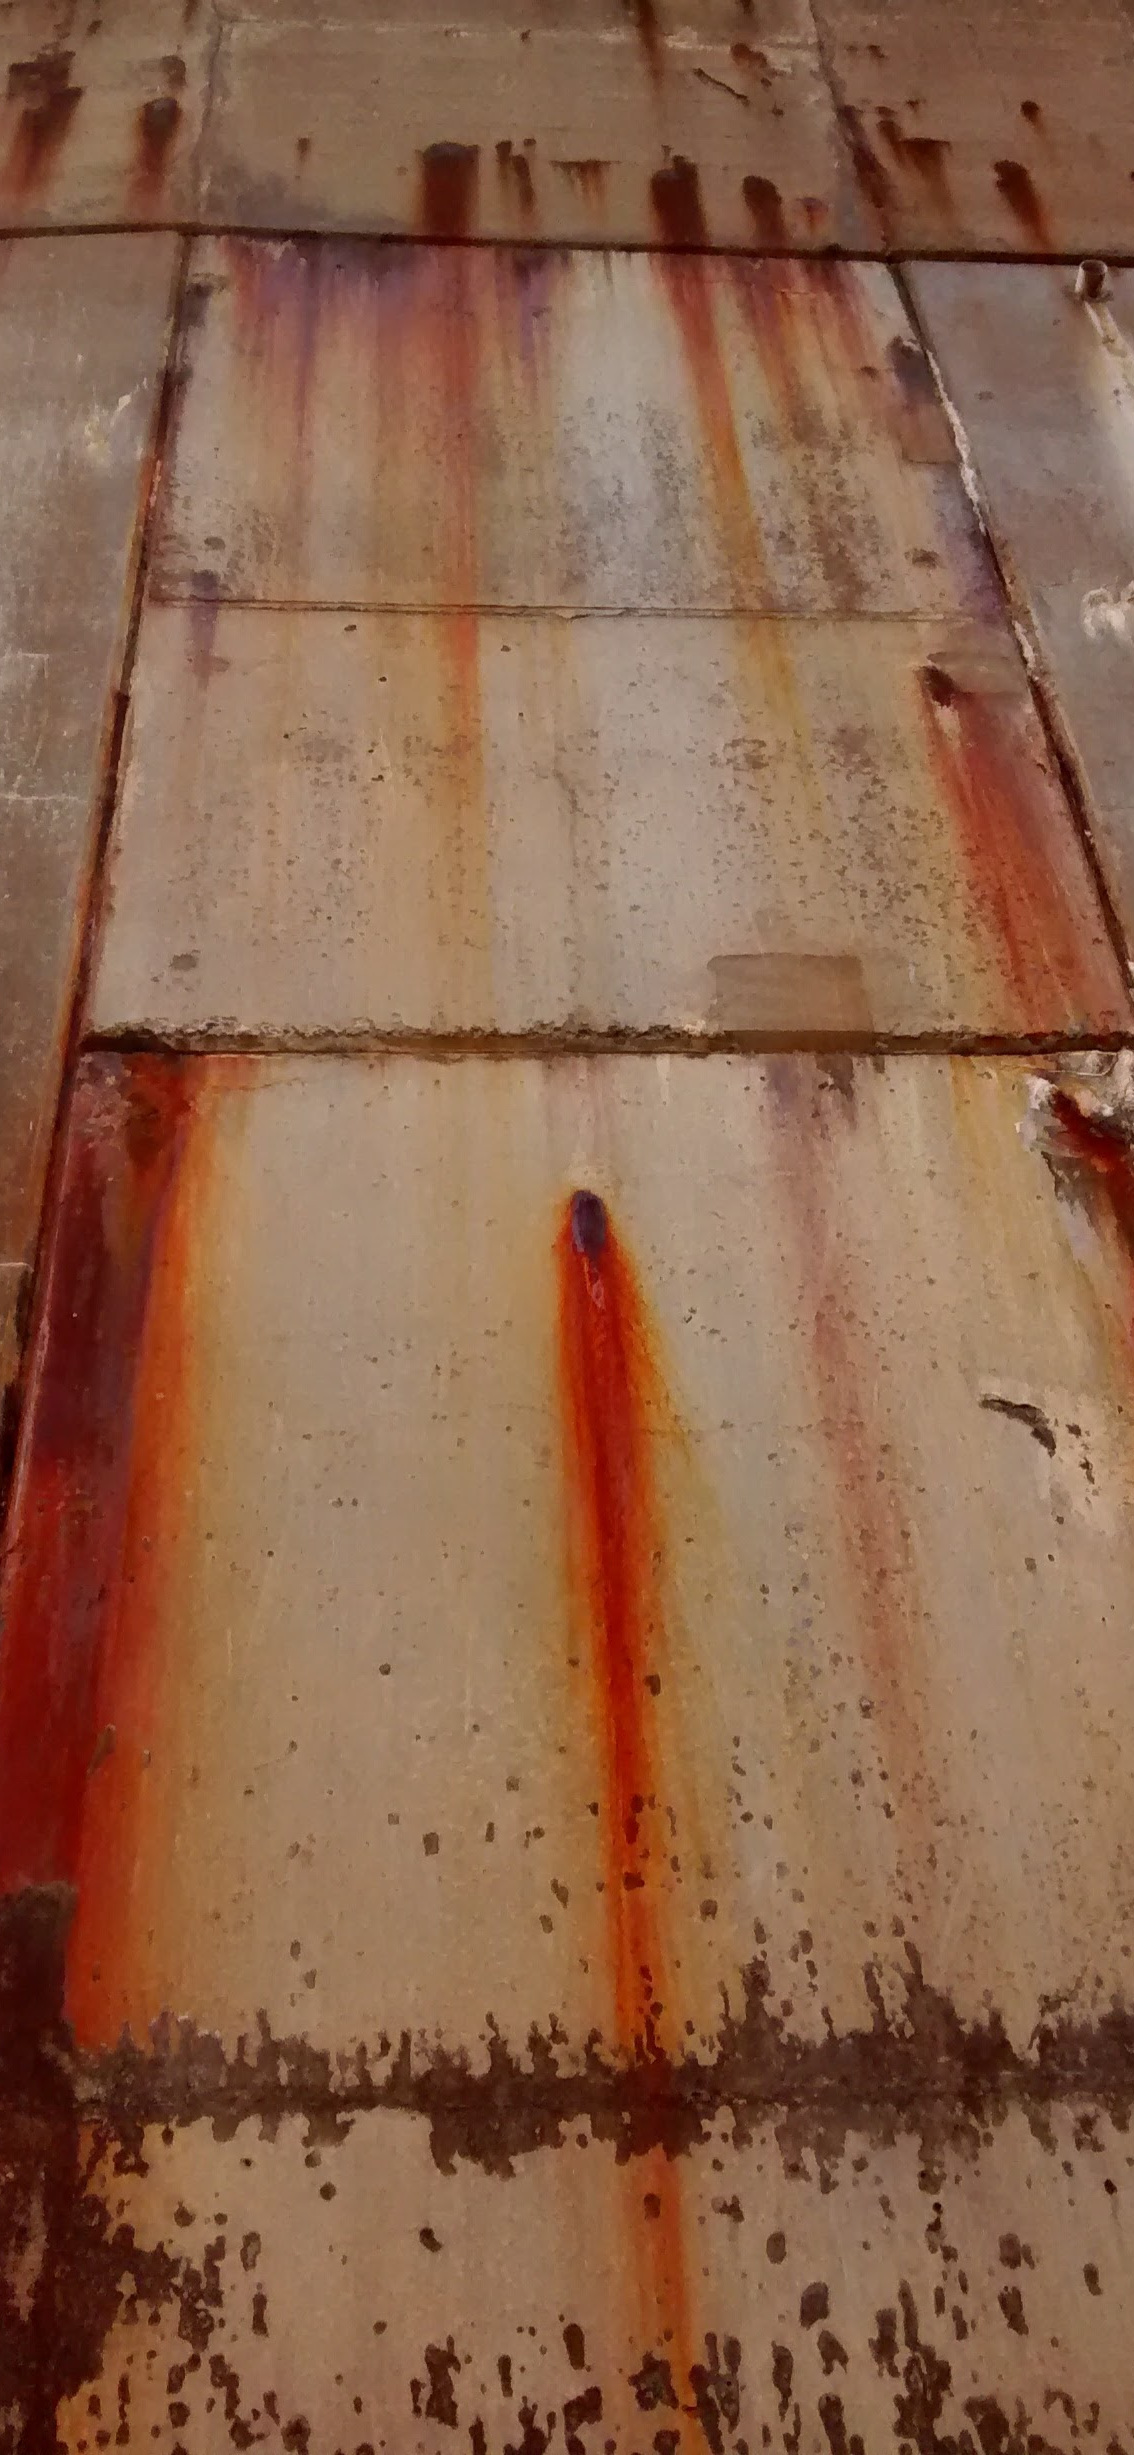
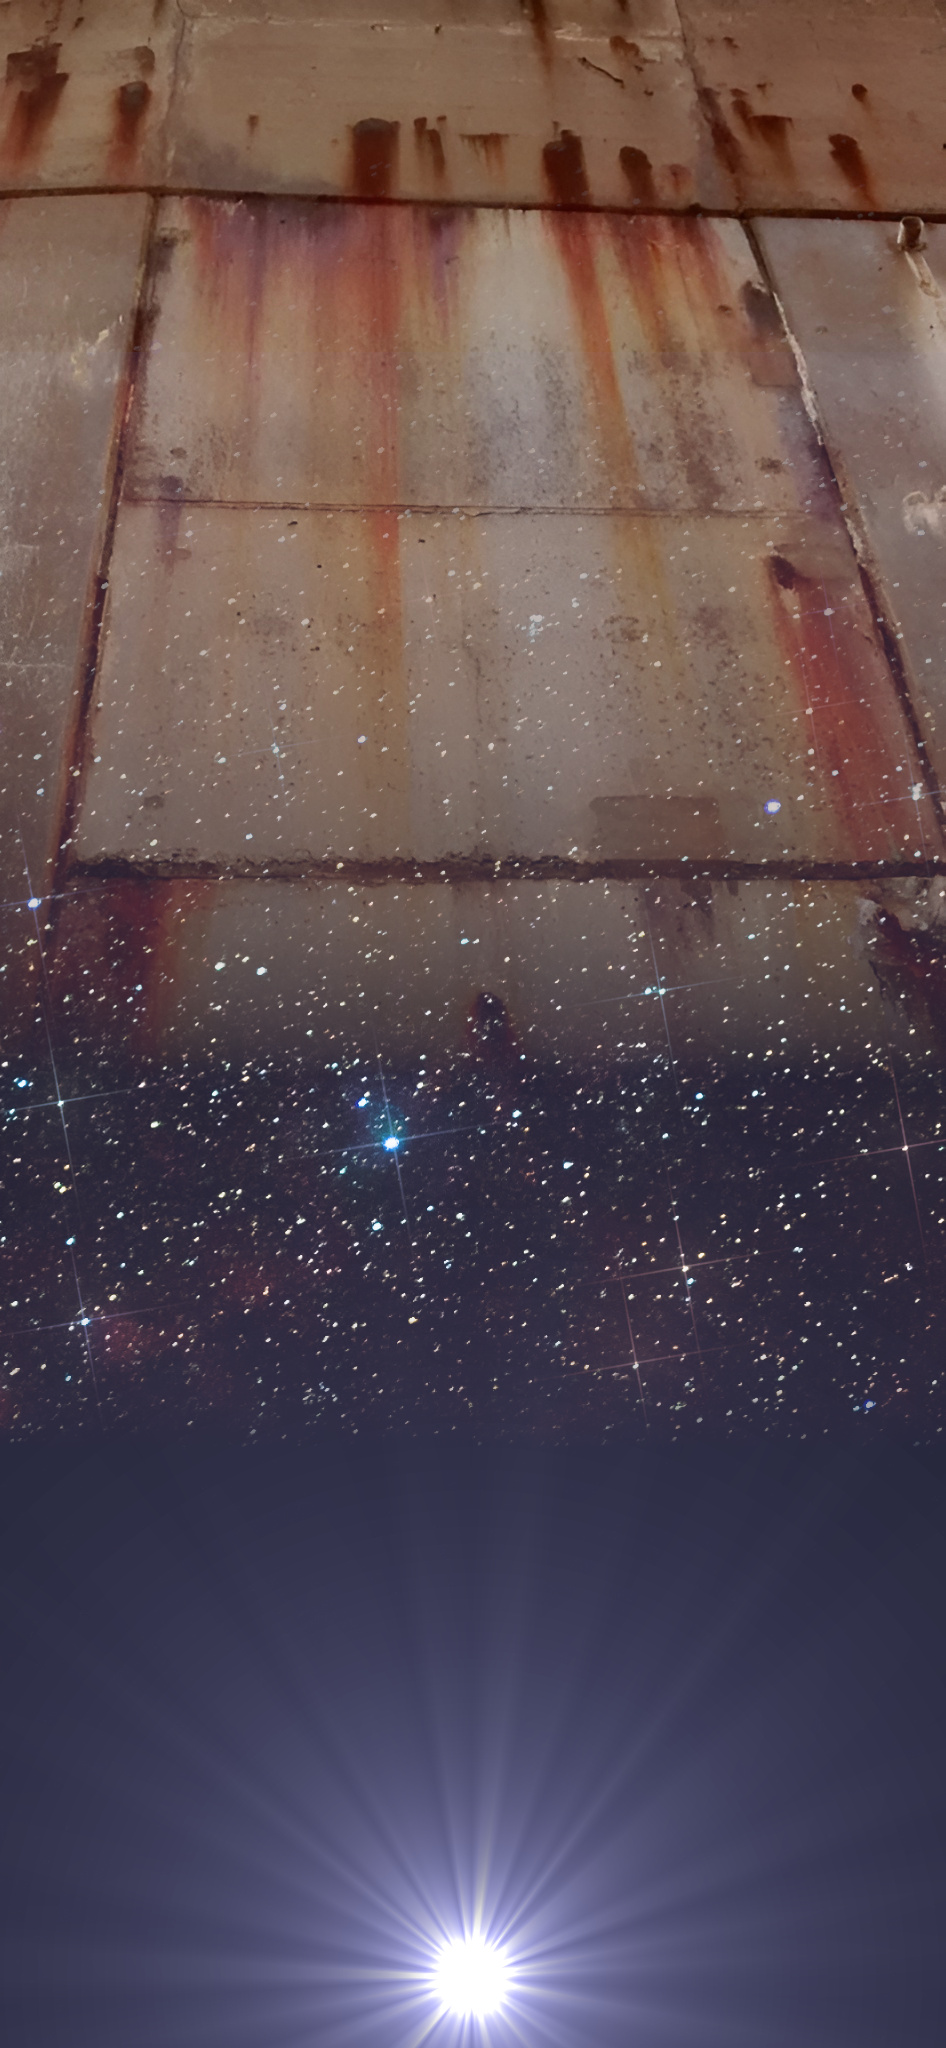
More final colours, finish background image...

diff --git a/FinalGirl.html b/FinalGirl.html
@@ -44,14 +44,14 @@ div {
 	animation-duration: 10s;
 	animation-iteration-count: 1;
 }
-.special_red { background-color: red; color: black; }
-.red:hover { background-color: red; color: black; transition: 0.0s; transition-timing-function: ease-in; }
-.green:hover { background-color: green; color: black; transition: 0.0s; }
-.blue:hover { background-color: blue; color: white; transition: 0.0s; }
-.yellow:hover { background-color: yellow; color: black; transition: 0.0s; }
-.cyan:hover { background-color: cyan; color: black; transition: 0.0s; }
-.purple:hover { background-color: purple; color: white; transition: 0.0s; }
-.white:hover { background-color: black; color: white; transition: 0.0s; }
+.special_red { background-color: #9E1705; color: black; }
+.red:hover { background-color: #9E1705; color: black; transition: 0.0s; transition-timing-function: ease-in; }
+.green:hover { background-color: #81C14B; color: black; transition: 0.0s; }
+.blue:hover { background-color: #4F7CAC; color: black; transition: 0.0s; }
+.yellow:hover { background-color: #906C28; color: black; transition: 0.0s; }
+.cyan:hover { background-color: #689F7C; color: black; transition: 0.0s; }
+.purple:hover { background-color: #774A59; color: black; transition: 0.0s; }
+.white:hover { background-color: #222222; color: white; transition: 0.0s; }
 .space::before {
 	padding: 0;
 	content: "s";
